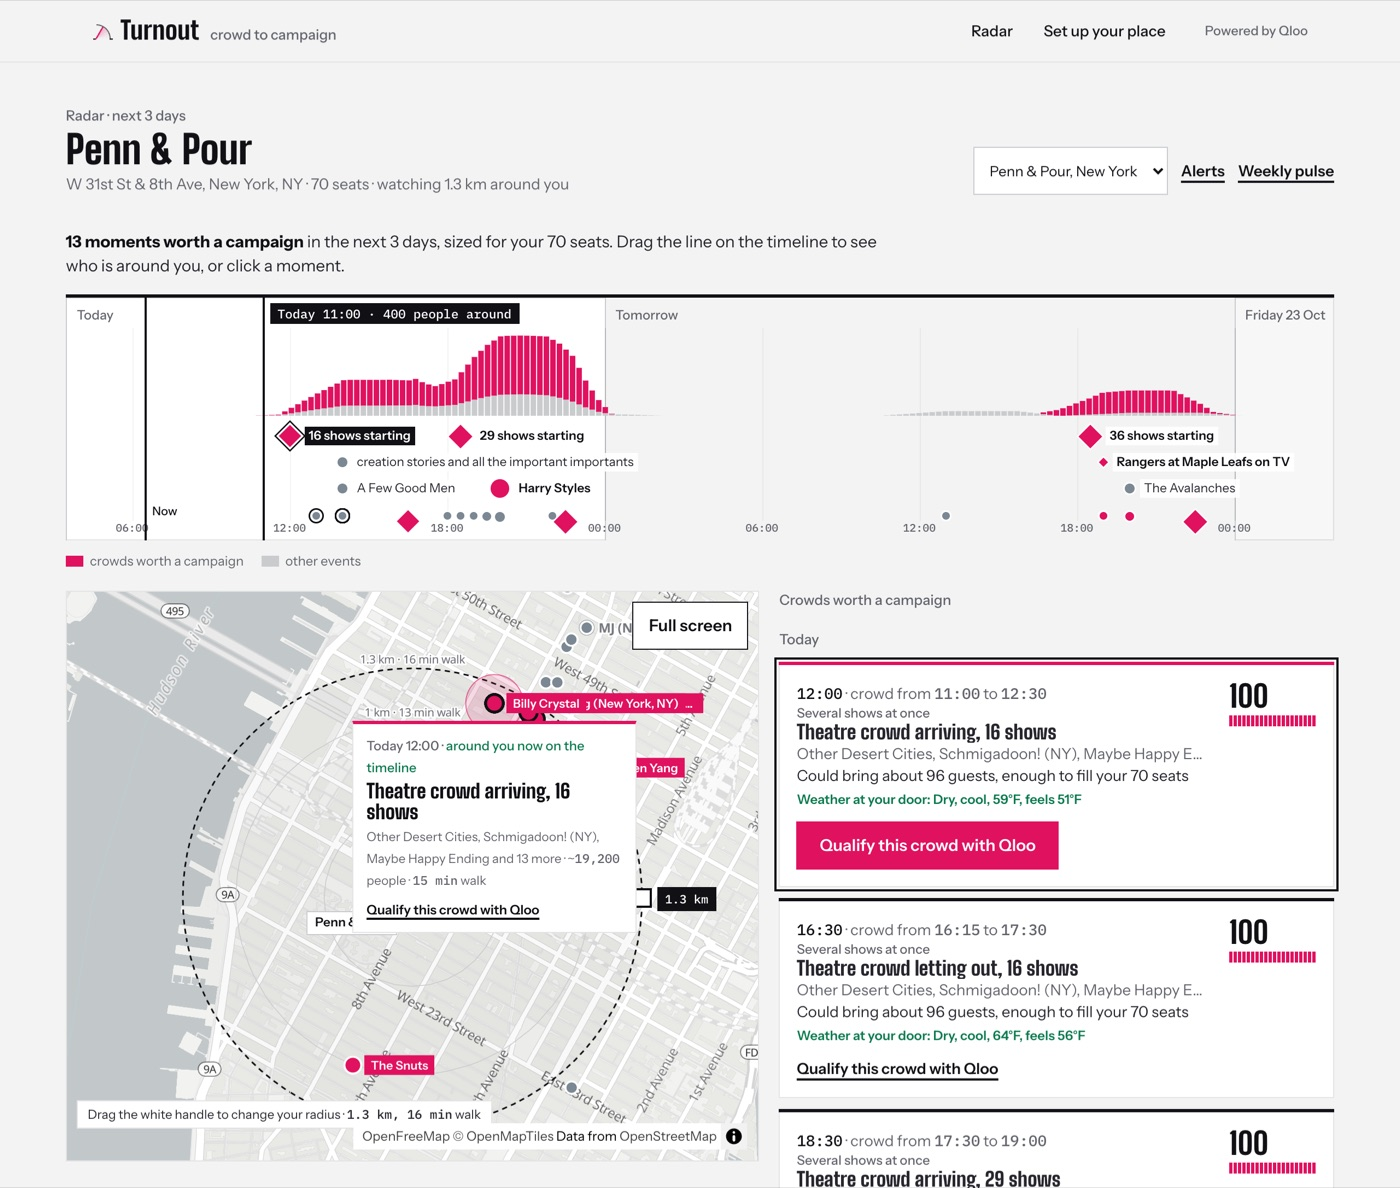
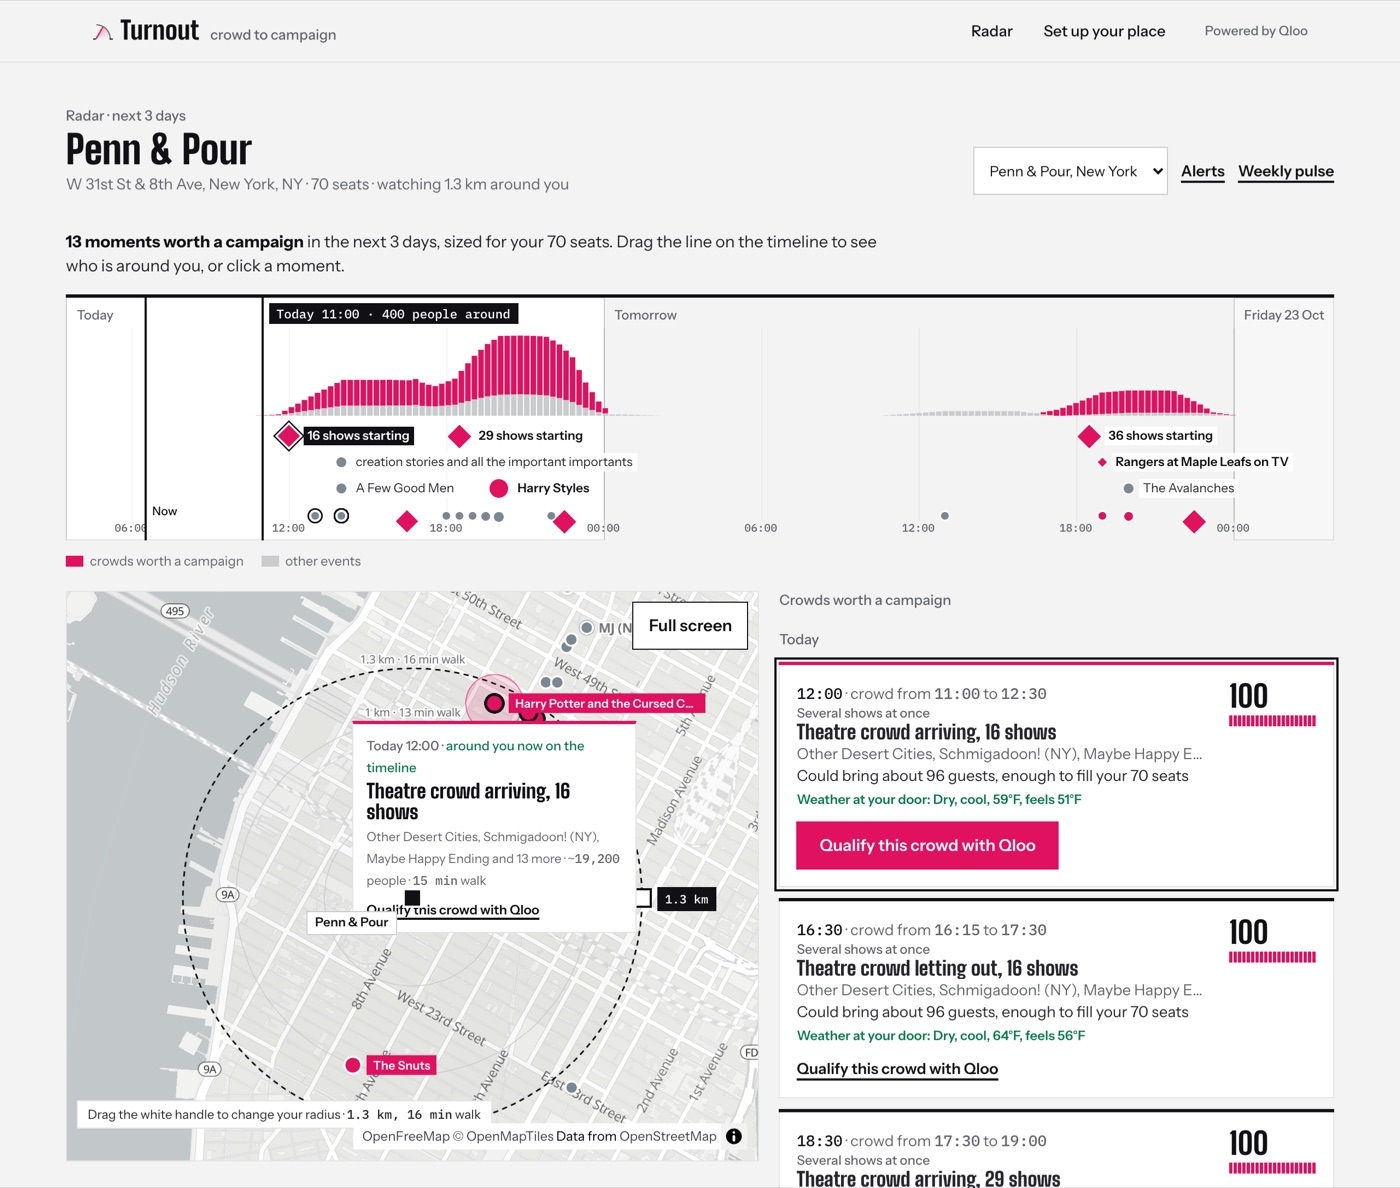
Radar map: sign labels that collide with the peek board or a bigger venue's label are hidden, re-evaluated on every move; the merchant's label stays on top; radar screen recaptured

diff --git a/src/app/radar/RadarMap.tsx b/src/app/radar/RadarMap.tsx
@@ -92,6 +92,7 @@ export default function RadarMap({ merchant, points, onSelect, onRadiusChange }:
   const map = useRef<ML>(null);
   const card = useRef<ML>(null);
   const signs = useRef<ML[]>([]);
+  const declutter = useRef<() => void>(() => undefined);
   const handle = useRef<ML>(null);
   const [ready, setReady] = useState(false);
   const [radius, setRadius] = useState(merchant.radiusM);
@@ -140,6 +141,7 @@ export default function RadarMap({ merchant, points, onSelect, onRadiusChange }:
         cooperativeGestures: true,
       });
       m.touchPitch?.disable?.();
+      m.on("move", () => declutter.current());
       m.on("load", () => {
         if (cancelled) return;
         addLayers(m, palette());
@@ -212,11 +214,12 @@ export default function RadarMap({ merchant, points, onSelect, onRadiusChange }:
     for (const sgn of signs.current) sgn.remove();
     signs.current = points
       .filter((p) => p.hot && !p.selected)
+      .sort((a, b) => b.capacity - a.capacity)
       .map((p) => {
         const el = document.createElement("div");
         el.className = "tm-sign";
         el.textContent = p.label;
-        return new ml.Marker({ element: el, anchor: "left", offset: [11, 0] }).setLngLat([p.lon, p.lat]).addTo(m);
+        return new ml.Marker({ element: el, anchor: "left", offset: [13, 0] }).setLngLat([p.lon, p.lat]).addTo(m);
       });
     const sel = points.find((p) => p.selected);
     card.current?.remove();
@@ -230,6 +233,20 @@ export default function RadarMap({ merchant, points, onSelect, onRadiusChange }:
       const below = y < 150;
       card.current = new ml.Marker({ element: el, anchor: below ? "top" : "bottom", offset: [0, below ? 16 : -16] }).setLngLat([sel.lon, sel.lat]).addTo(m);
     }
+    // Declutter: a sign that overlaps the peek board or a bigger venue's sign is hidden (biggest crowds first).
+    declutter.current = () => {
+      const kept: DOMRect[] = [];
+      const peek = card.current?.getElement()?.getBoundingClientRect();
+      if (peek) kept.push(peek);
+      for (const sgn of signs.current) {
+        const el = sgn.getElement() as HTMLElement;
+        el.style.visibility = "visible";
+        const r = el.getBoundingClientRect();
+        if (kept.some((k) => r.left < k.right + 4 && r.right > k.left - 4 && r.top < k.bottom + 4 && r.bottom > k.top - 4)) el.style.visibility = "hidden";
+        else kept.push(r);
+      }
+    };
+    requestAnimationFrame(() => declutter.current());
   }, [points, ready]);
 
   // Fly to a newly selected crowd.

diff --git a/src/app/radar/radar.css b/src/app/radar/radar.css
@@ -9,6 +9,9 @@
 
 /* your place: a square in ink */
 .tm-me-wrap { position: relative; width: 0; height: 0; }
+.tm-me-wrap.maplibregl-marker { z-index: 3; } /* your place and its label stay above signs and the peek board */
+.tm-sign.maplibregl-marker { z-index: 1; }
+.tm-peek.maplibregl-marker { z-index: 2; }
 .tm-me { position: absolute; left: -7px; top: -7px; width: 14px; height: 14px; border-radius: 0; background: var(--ink); box-shadow: 0 0 0 2px var(--panel); }
 .tm-chip { position: absolute; white-space: nowrap; background: var(--panel); border: 1px solid var(--line-strong); border-radius: 0; padding: 2px 7px; font-size: 11.5px; font-weight: 600; color: var(--ink); line-height: 1.35; box-shadow: none; }
 .tm-chip-me { left: -14px; top: 12px; transform: translateX(-100%); }
